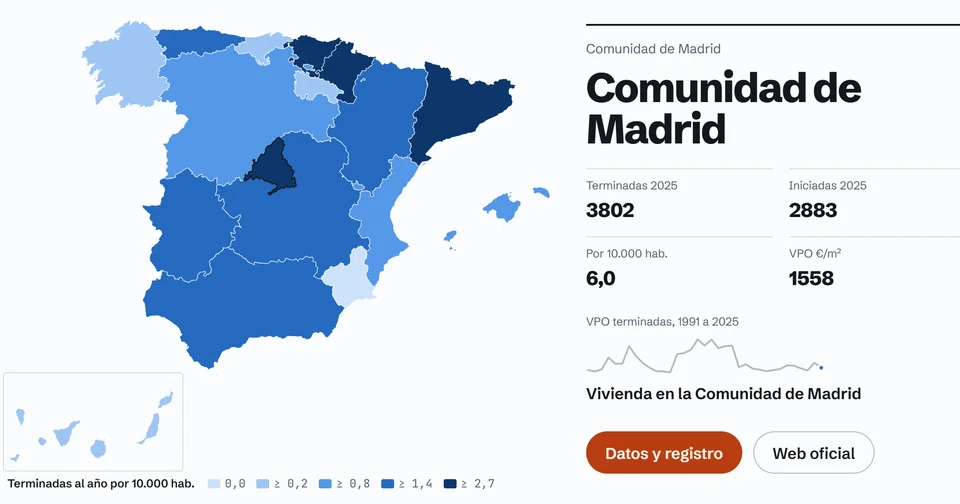
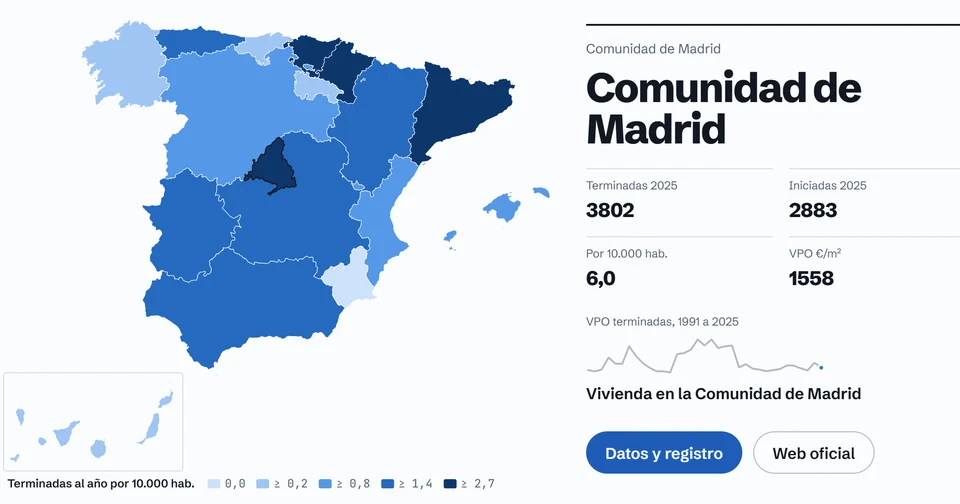
style: deep teal accent instead of orange (complements the portrait, ties to the #elPagès green and the web tools' blues); new social image; blue Mapa VPO shot

Changed region(s): [[0.5938, 0.8333, 0.7812, 0.9524]]

diff --git a/src/styles.css b/src/styles.css
@@ -1,4 +1,5 @@
-/* Portfolio styles. One accent (orange), cool neutral greys, Geist + Geist Mono.
+/* Portfolio styles. One accent (deep teal: the complement of skin tones, so the portrait pops; between the #elPagès
+   green and the web tools' data blues), cool neutral greys, Geist + Geist Mono.
    Shape rule: surfaces (cards, dialogs) are 20px, anything you press (buttons, chips, tags) is a pill,
    app icons use a squircle-like 22% radius because that is how they appear on Android. */
 
@@ -12,9 +13,9 @@
   --ink-3: #5f5f6a;   /* 5.3:1 on --bg-alt (was 4.46) */
   --line: rgba(18, 18, 22, 0.1);
   --line-strong: rgba(18, 18, 22, 0.2);
-  --accent: #b23c0b;   /* text on --bg-alt and on tags passes 4.5:1 (was 4.1 to 4.4) */
+  --accent: #0f6f6a;   /* 5.5:1 on --bg, 5.2:1 on --bg-alt, white on it 6.0:1 */
   --accent-ink: #ffffff;
-  --accent-soft: rgba(178, 60, 11, 0.1);
+  --accent-soft: rgba(15, 111, 106, 0.1);
   --shadow: 0 1px 2px rgba(18, 18, 30, 0.05), 0 12px 32px -12px rgba(18, 18, 40, 0.16);
   --r-surface: 20px;
   --r-pill: 999px;
@@ -36,9 +37,9 @@
   --ink-3: #8c8c98;
   --line: rgba(255, 255, 255, 0.09);
   --line-strong: rgba(255, 255, 255, 0.2);
-  --accent: #ff7a33;
-  --accent-ink: #16110d;
-  --accent-soft: rgba(255, 122, 51, 0.13);
+  --accent: #3fd6c3;   /* 10.8:1 on --bg; --accent-ink on it 9.4:1 */
+  --accent-ink: #04211e;
+  --accent-soft: rgba(63, 214, 195, 0.13);
   --shadow: 0 1px 2px rgba(0, 0, 0, 0.4), 0 16px 40px -14px rgba(0, 0, 0, 0.6);
   color-scheme: dark;
 }
@@ -1203,7 +1204,7 @@ kbd {
   letter-spacing: -0.06em;
 }
 .pre-accent {
-  color: #ff7a33;
+  color: #3fd6c3;
 }
 .pre-count {
   font-family: var(--mono);
@@ -1216,7 +1217,7 @@ kbd {
   right: 0;
   bottom: 0;
   height: 4px;
-  background: #ff7a33;
+  background: #3fd6c3;
   transform-origin: 0 50%;
 }
 
